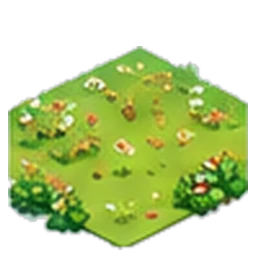
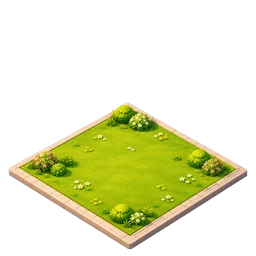
Add files via upload

diff --git a/js/ciutat.js b/js/ciutat.js
@@ -13,7 +13,7 @@ export const W = 236;
 const DZ = 14;
 const MARGE = 0.1;
 // Canvia aquest número quan actualitzis imatges: obliga el navegador a no fer servir les velles
-export const VERSIO_IMATGES = '4';
+export const VERSIO_IMATGES = '5';
 export const iso = (u, v) => ({ x: (u - v) * W / 2, y: (u + v) * W / 4 });
 const clau = (X, Y) => `${X},${Y}`;
 const hash = (X, Y) => { let h = (X * 374761393 + Y * 668265263) >>> 0; h = ((h ^ (h >>> 13)) * 1274126177) >>> 0; return h % 1000; };
